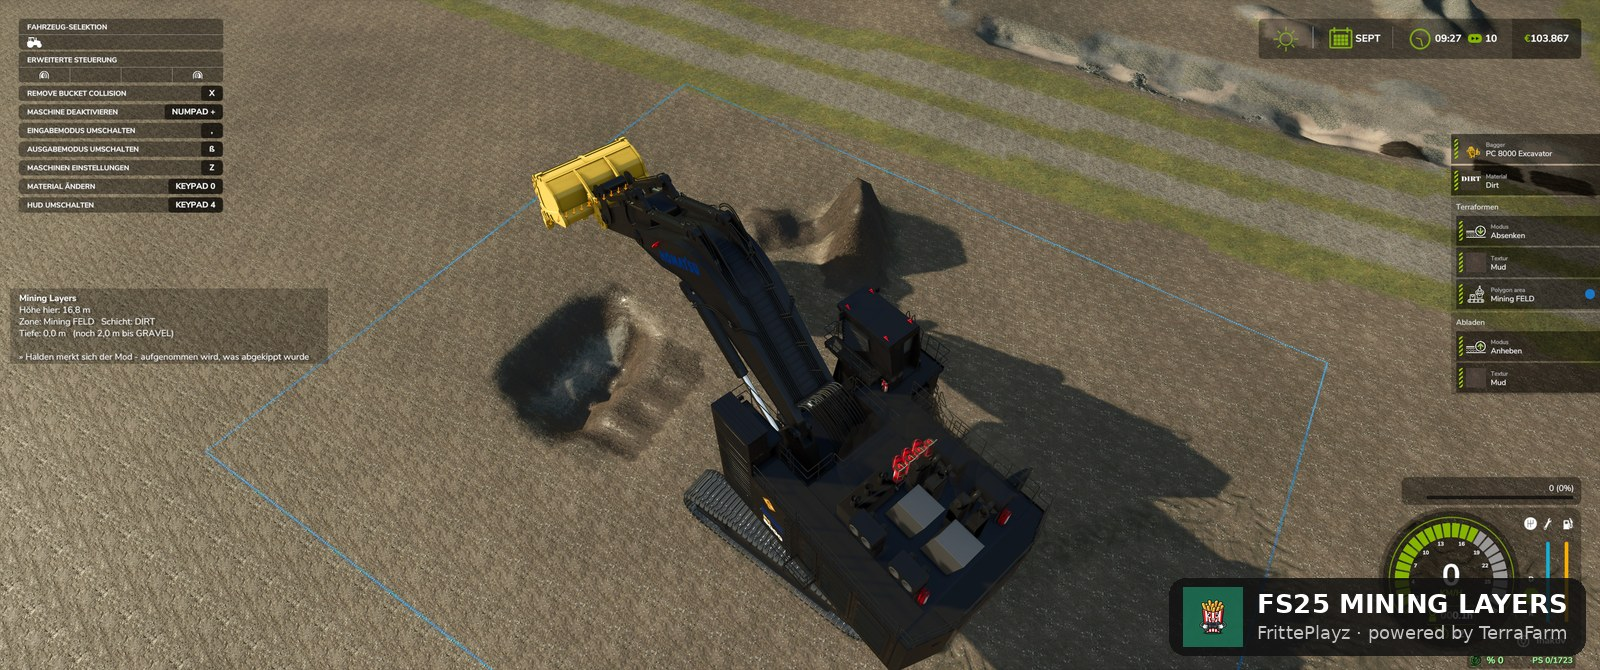
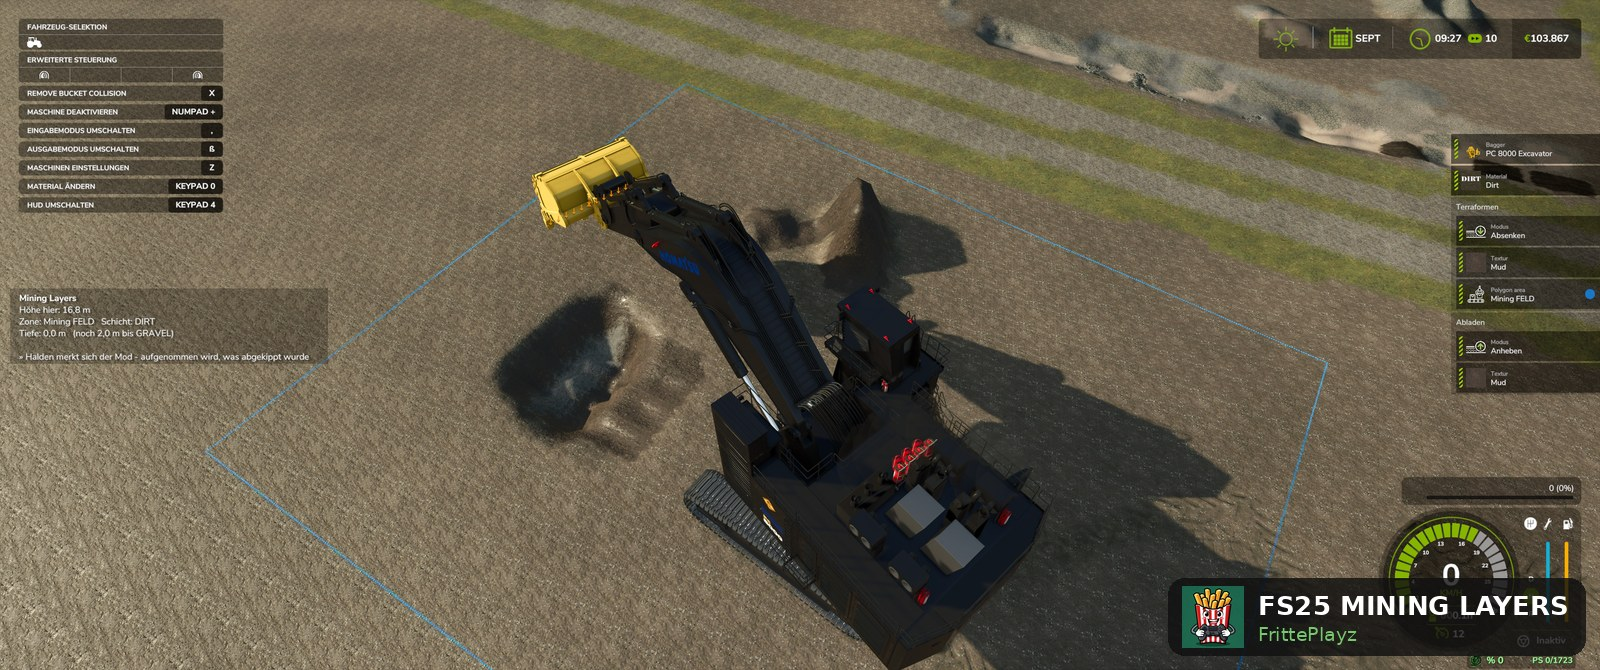
Drop 'powered by' phrasing; factual TerraFarm dependency notice, images without third-party branding

Changed region(s): [[0.7188, 0.8657, 1.0, 0.9851]]

diff --git a/README.de.md b/README.de.md
@@ -3,7 +3,7 @@
 **Echtes Bergbau-Gameplay für den Landwirtschafts-Simulator 25 — grab dich durch geologische Schichten.**
 Das Material bestimmt die Grabtiefe, nicht die Handauswahl: erst Mutterboden, dann Kies, dann Paydirt, dann Fels. Eigene Geologie pro Grube, Halden mit Gedächtnis und ein Ingame-Editor. Läuft auf **jeder Karte** — ohne Map-Bearbeitung.
 
-Ein inoffizielles Addon, **powered by [TerraFarm](https://github.com/scfmod/FS25_TerraFarm)** (von scfmod — keine Verbindung).
+Mining Layers baut auf **[TerraFarm](https://github.com/scfmod/FS25_TerraFarm)** von scfmod auf und benötigt es zum Laufen. Inoffizielles Addon, keine Verbindung zu scfmod.
 
 🇬🇧 **English version: [README.md](README.md)**
 
@@ -105,7 +105,7 @@ Im Spiel zeigt sich das als kleines Schild am Grubenrand. Nicht gewünscht? `spo
 - **Autor:** Tommy Honold — [seeside.ai](https://seeside.ai)
 - **Sponsor:** [farmersingles.de](https://farmersingles.de) — die Singlebörse für Landwirte
 - Ein **FrittePlayz**-Projekt (YouTube)
-- Powered by **TerraFarm** von [scfmod](https://github.com/scfmod) — dies ist ein inoffizielles Addon ohne Verbindung zu scfmod oder GIANTS Software.
+- Baut auf **[TerraFarm](https://github.com/scfmod/FS25_TerraFarm)** von scfmod auf (wird benötigt, separat installieren) — inoffizielles Addon, keine Verbindung zu scfmod oder GIANTS Software.
 
 ## Support
 

diff --git a/README.md b/README.md
@@ -3,7 +3,7 @@
 **Real mining gameplay for Farming Simulator 25 — dig through geological layers.**
 Material is determined by digging depth, not by hand selection: topsoil first, then gravel, then paydirt, then rock. Per-pit geology, spoil piles that remember what you dumped, and an in-game editor. Works on **any map** — no map editing required.
 
-An unofficial add-on **powered by [TerraFarm](https://github.com/scfmod/FS25_TerraFarm)** (by scfmod — no affiliation).
+Mining Layers builds on **[TerraFarm](https://github.com/scfmod/FS25_TerraFarm)** by scfmod, which it requires to run. Unofficial add-on, not affiliated with scfmod.
 
 🇩🇪 **Deutsche Version: [README.de.md](README.de.md)**
 
@@ -105,7 +105,7 @@ In game this shows as a small sign at the pit edge. Don't want it? Set `sponsorS
 - **Author:** Tommy Honold — [seeside.ai](https://seeside.ai)
 - **Sponsor:** [farmersingles.de](https://farmersingles.de) — the dating site for farmers
 - A **FrittePlayz** project (YouTube)
-- Powered by **TerraFarm** by [scfmod](https://github.com/scfmod) — this is an unofficial add-on with no affiliation to scfmod or GIANTS Software.
+- Built on **[TerraFarm](https://github.com/scfmod/FS25_TerraFarm)** by scfmod (required, install separately) — unofficial add-on, no affiliation with scfmod or GIANTS Software.
 
 ## Support
 
